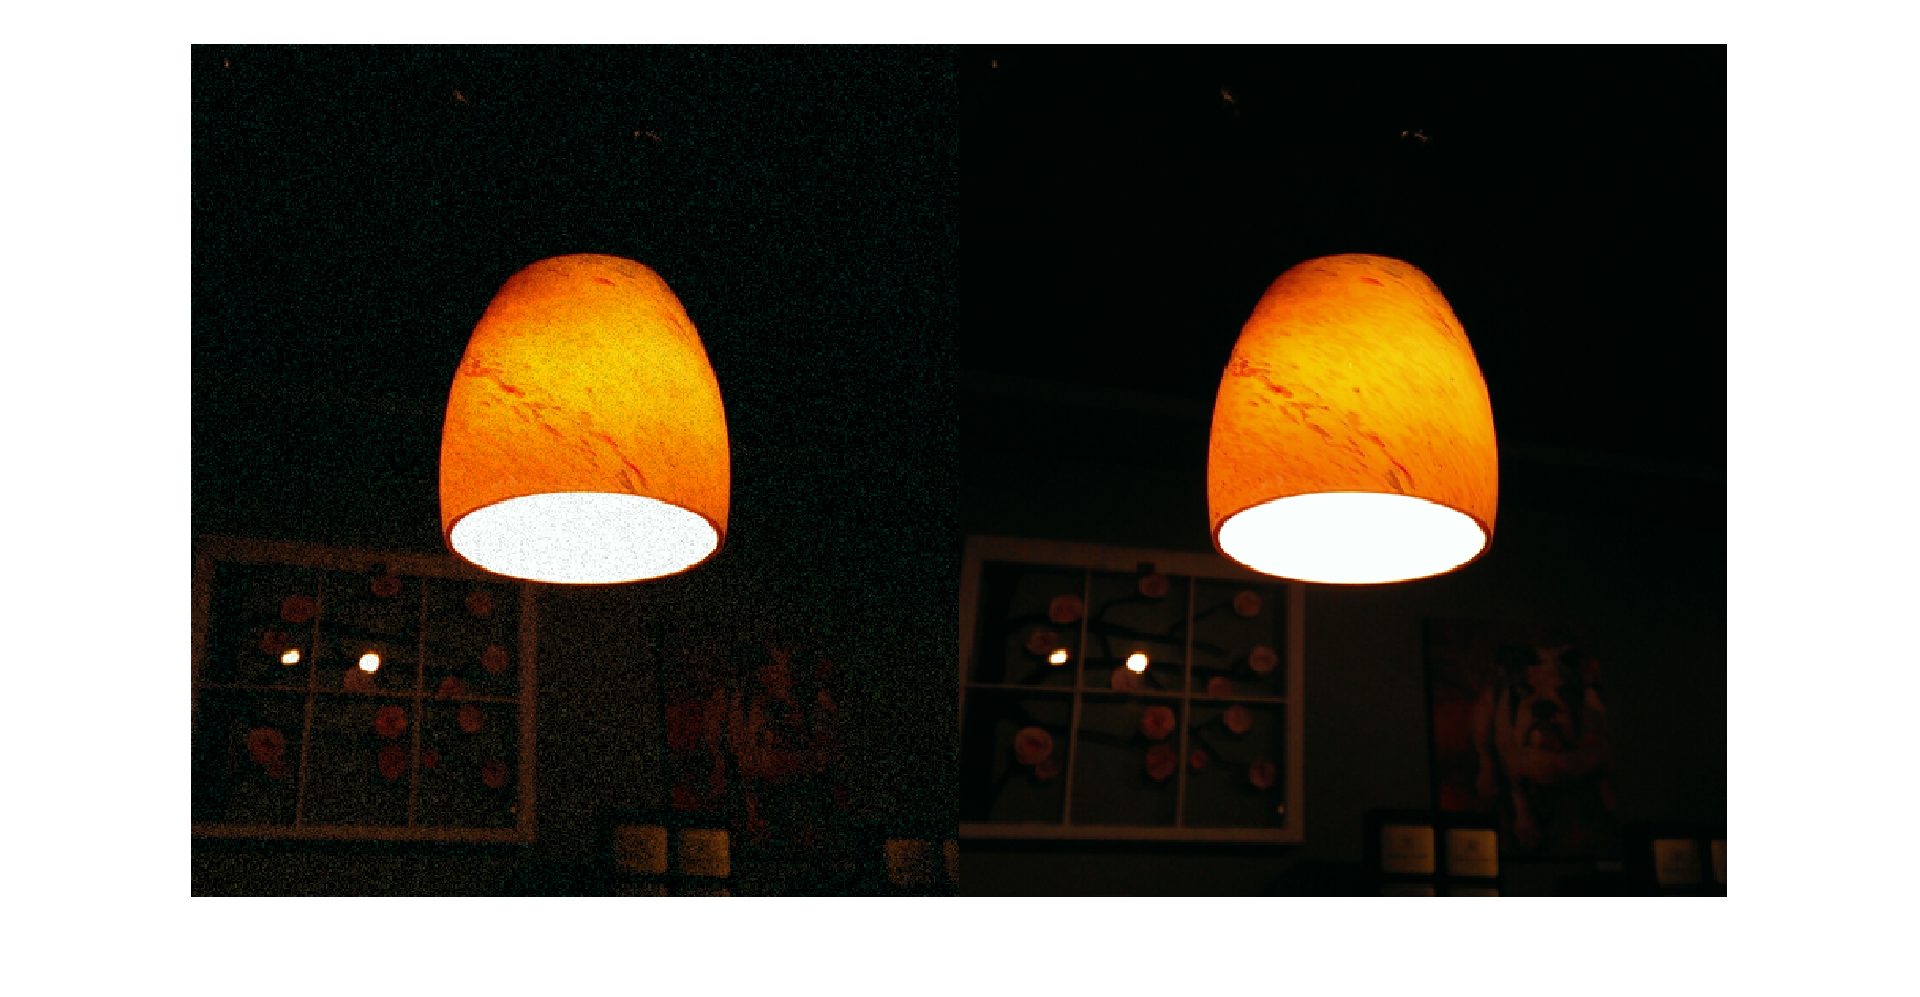
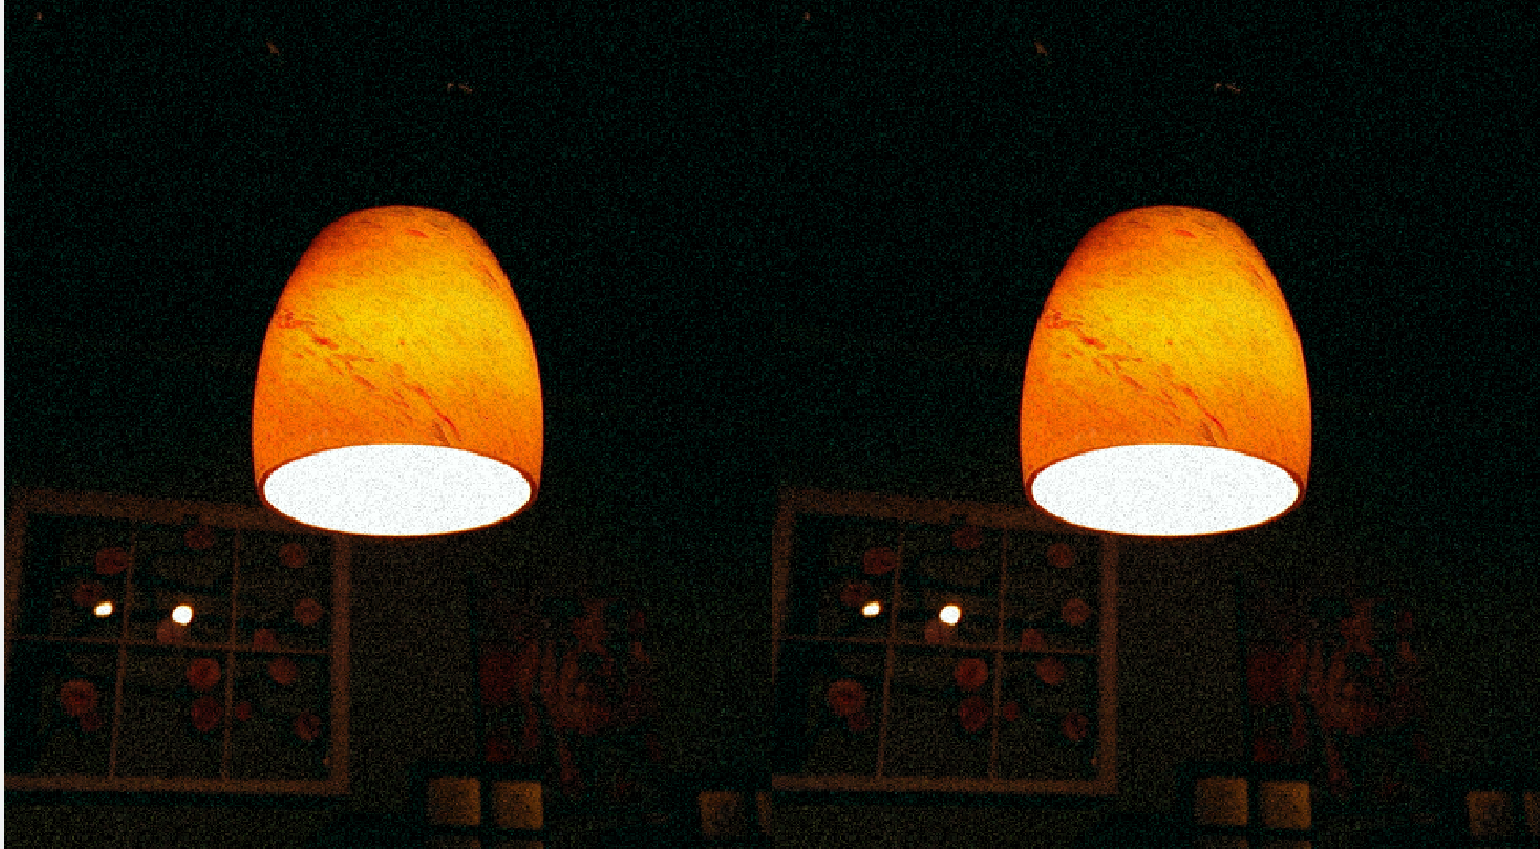
MAD evaluation added, fixed error with thresholding, changed optimal tranform level ...

diff --git a/matlab/MAD_lamp_with_noise.m b/matlab/MAD_lamp_with_noise.m
@@ -1,12 +1,7 @@
-% orig_img = imread('spine.tif');
-% orig_img = imread('building.bmp');
-% orig_img = imread('testbild.jpg');
-% orig_img = imread('testbildcolor.jpg');
-% orig_img = imread('cars.bmp');
-% orig_img = imread('land.bmp');
-% orig_img = imread('GreenRoom33.jpg');
+addpath('./images');
+
 orig_img = imread('lamp.bmp');
-% orig_img = imread('moon.bmp');
+
 
 level = 5;
 th_type = "soft"; % soft or hard threashold policy for filtering
@@ -41,7 +36,7 @@ nn = 2^lev_cols;
 if (mm > m || nn > n)
     X = zeros(mm, nn, 'double');
     if c == 3
-        X(1:m, 1:n) = Vbf_norm_w_noise * 255;
+        X(1:m, 1:n) = Vbf_norm * 255;
     else
         X(1:m, 1:n) = orig_img_w_noise;
     end
@@ -76,28 +71,24 @@ else
 end
 Inr = cast(Inr(1:m, 1:n,:),'uint8'); % cast to uint8 for plotting
 
-subplot(1, 2, 1);
+Imbilatfilt = imbilatfilt(orig_img_w_noise);
+
+subplot(1, 3, 1);
 imshow(orig_img_w_noise, []);
 title('With gaussian noise');
 
-subplot(1, 2, 2);
+subplot(1, 3, 2);
 imshow(Inr);
-title('Recovered');
+title('Recovered: Haar');
+
+subplot(1, 3, 3);
+imshow(Imbilatfilt);
+title('Recovered: Imbilatfilt');
 
 figure, montage({orig_img_w_noise, Inr});
 
-% subplot(1, 4, 1);
-% imshow(orig_img);
-% title('Original');
-% 
-% subplot(1, 4, 2);
-% imshow(orig_img_w_noise, []);
-% title('With gaussian noise');
-% 
-% subplot(1, 4, 3);
-% imshow(Iout_hw, []);
-% title('Transformed');
-% 
-% subplot(1, 4, 4);
-% imshow(Inr);
-% title('Recovered');
+figure, montage({orig_img_w_noise, Imbilatfilt});
+
+Inr_mad = mad(cast(Inr,'double'), 1, 'all');
+Imbilatfilt_mad = cast(mad(255*Imbilatfilt, 1, 'all'),'double');
+[Inr_mad Imbilatfilt_mad]

diff --git a/matlab/MAD_building.m b/matlab/MAD_building.m
@@ -1,0 +1,55 @@
+addpath('./images');
+
+% Table with optimized parameters for different images
+optimized_params = [
+    0.01,  1.188;
+    0.045, 1.134;
+    0.8,   1.07 ;
+    0.5,   1.09 ;
+    0.01,  1.2  ;
+    0.3,   1.15 ;
+    0.01,  1.25 ;
+    0.002, 1.035;
+    0.01,  1.165
+    ];
+
+row = 1; % max value = 9
+params = optimized_params(row, 1:2);
+mu = params(1);
+rho = params(2);
+iter = 30; % number of iterations for lime solver (default 50)
+
+alpha = 0.08; % same value for all images, original paper is using 0.15
+gamma = 0.8; % parameter for gamma correction
+
+orig_img = imread('building.bmp');
+
+[Tout, Ti] = lime_enhance(orig_img, alpha, mu, rho, gamma, iter);
+enh_img = im2double(orig_img) ./ Tout;
+
+J = histeq(orig_img);
+
+subplot(1, 3, 1);
+imshow(orig_img);
+title('Original');
+
+subplot(1, 3, 2);
+imshow(enh_img);
+title('LIME enhanced');
+
+subplot(1, 3, 3);
+imshow(J);
+title('After histeq');
+
+% Inr = exec_full_haar_main_module(enh_img, level, th_type);
+
+J_gray = rgb2gray(J);
+enh_img_gray = 255*rgb2gray(enh_img);
+
+enh_img_mad = mad(255*enh_img, 1, 'all');
+J_mad = cast(mad(cast(J,'double'), 1, 'all'),'double');
+[enh_img_mad J_mad]
+
+enh_img_gray_mad = mad(enh_img_gray, 1, 'all');
+J_gray_mad = cast(mad(cast(J_gray,'double'), 1, 'all'), 'double');
+[enh_img_gray_mad J_gray_mad]

diff --git a/matlab/exec_lime_enhancement.m b/matlab/exec_lime_enhancement.m
@@ -2,6 +2,8 @@
 % Ti / Tout are in and enhanced illumination maps,
 % img_out and Iout are enhanced and image with reduced noise.
 
+addpath('./images');
+
 % Table with optimized parameters for different images
 optimized_params = [
     0.01,  1.188;
@@ -15,7 +17,7 @@ optimized_params = [
     0.01,  1.165
     ];
 
-row = 3; % max value = 9
+row = 1; % max value = 9
 params = optimized_params(row, 1:2);
 mu = params(1);
 rho = params(2);

diff --git a/matlab/apply_haar_filter.m b/matlab/apply_haar_filter.m
@@ -3,9 +3,9 @@ function [Res] = apply_haar_filter(M, level, th_type, HH_matrix)
 % type <> 1 => hard threshold
     th = sigthresh(M, level, HH_matrix);
     if th_type == "soft"
-        M(M >= th) = M(M >= th) - th;
+        M(abs(M) >= th) = M(abs(M) >= th) - sign(M(abs(M) >= th))*th;
     else
-        M(M >= th) = 0;
+        M(abs(M) >= th) = 0;
     end
     Res = M;
 end

diff --git a/matlab/sigthresh.m b/matlab/sigthresh.m
@@ -4,5 +4,5 @@ function [T] = sigthresh(M, level, test_matrix)
     C = 0.6745;
     variance = (median(abs(M(:))) / C)^2;
     beta = sqrt(log(length(M) / level));
-    T = beta * variance / std2(test_matrix);
+    T = beta * variance / std2(test_matrix)
 end
